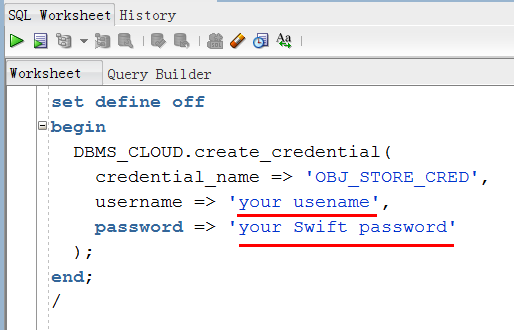
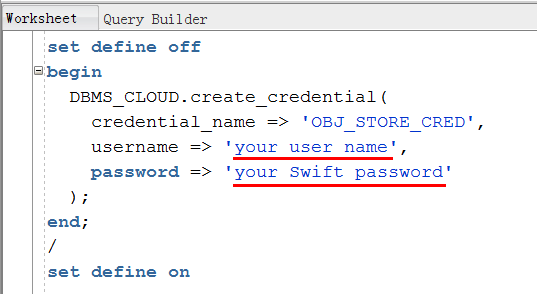
update the create credential script and tune format
add "set difine on" in the create credential script

Changed region(s): [[0.0, 0.0, 1.0, 1.0], [0.1245, 0.6429, 0.4358, 0.7347]]

diff --git a/workshops/journey4-adwc/LabGuide300.md b/workshops/journey4-adwc/LabGuide300.md
@@ -91,13 +91,11 @@ In OCI Object Storage, a bucket is the terminology for a container of multiple f
 
     https://swiftobjectstorage.<**region_name**>.oraclecloud.com/v1/<**tenant_name**>/<**bucket_name**>/<**file_name**>
 
-In this example, the region name is us-ashburn-1, the tenant name is dbayard00, and the bucket name is ADWCLab. Yours might be different. So the URL of the chan_v3.dat file is:
+In this example, the region name is us-ashburn-1, the tenant name is dbayard00, and the bucket name is ADWCLab. Yours might be different. So the URL of the chan_v3.dat file is:  https://swiftobjectstorage.us-ashburn-1.oraclecloud.com/v1/dbayard00/ADWCLab/chan_v3.dat
 
-    https://swiftobjectstorage.us-ashburn-1.oraclecloud.com/v1/dbayard00/ADWCLab/chan_v3.dat
+![](images/300/ConstructURLs.png)
 
-    ![](images/300/ConstructURLs.png)
-
--   **Repeat** this for the **cust1v3.dat**, **chan_v3.dat**, **chan_v3_error.dat**, and **channels.csv** files. 
+-   **Repeat** this for the **cust1v3.dat**, **chan\_v3.dat**, **chan\_v3\_error.dat**, and **channels.csv** files. 
 
 -   **Save** the URLs you constructed to a note. We will use the URLs in the following steps.
 
@@ -190,7 +188,7 @@ When you are satisfied with the file content view, click **NEXT**.
 
 -   The last screen before the final data load enables you to test a larger row count than the sample data of the beginning of the wizard to see whether the previously made decisions are satisfying for your data load. Note that we are not loading any data when iterating back and forth between this screen and previous ones. Select **TEST RESULTS** and look at the log, the data you would load, any mistakes and how the external table definition looks like based on your inputs.
 
-&nbsp;&nbsp;&nbsp;&nbsp;&nbsp;&nbsp;&nbsp;&nbsp;&nbsp;&nbsp;&nbsp;When done with your investigation, click **NEXT**.
+&nbsp;&nbsp;&nbsp;&nbsp;&nbsp;&nbsp;&nbsp;When done with your investigation, click **NEXT**.
 
 ![](./images/300/Picture300-18b.png)
 
@@ -204,7 +202,7 @@ Alternative to the wizard-guided data load you can use the PL/SQL package **DBMS
     -   For the **credential_name** parameter in the **copy\_data** procedure, it is the name of the credential you defined in the step of Create a Database Credential for Your User.
     ![](./images/300/Picture300-19a.png)
 
-    -   For the **file\_uri\_list** parameter, it is assigned the value of the **chan\_v3\_dat\_URL** variable. Specify the URL that points to the **chan\_v3.data file** on your OCI Object Storage in the definition of the **chan\_v3\_dat\_URL** variable. You have constructed and saved the URL in the step of Construct the URLs of the Files on your OCI Object Storage. 
+    -   For the **file\_uri\_list** parameter, it is assigned the value of the **chan\_v3\_dat\_URL** variable. Specify the URL that points to the **chan\_v3.data file** on your OCI Object Storage in the definition of the **chan\_v3\_dat\_URL** variable. You have constructed and saved the URL in the step of Construct the URLs of the Files on Your OCI Object Storage. 
     ![](./images/300/Picture300-19.png)
 
 -   Repeat this for the **sale1\_v3\_dat\_URL** and **cust1\_v3\_dat\_URL** variables in the script.
@@ -225,7 +223,7 @@ select * from user_load_operations;
 This table lists the past and current load operations in your schema.Any data copy and data validation operation will be automatically
 tracked by Oracle.
 
--   To look at the log of a load operation, copy and paste <a href="./scripts/300/load_data_with_errors.txt" target="_blank">this code snippet</a> to a SQL Developer worksheet and run the script as your user in SQL Developer. Specify the URL that points to the **chan\_v3\_error.dat** file. You have constructed and saved the URL in the step of Construct the URLs of the Files on your OCI Object Storage. Note that you are going to load the data with errors this time.
+-   To look at the log of a load operation, copy and paste <a href="./scripts/300/load_data_with_errors.txt" target="_blank">this code snippet</a> to a SQL Developer worksheet and run the script as your user in SQL Developer. Specify the URL that points to the **chan\_v3\_error.dat** file. You have constructed and saved the URL in the step of Construct the URLs of the Files on Your OCI Object Storage. Note that you are going to load the data with errors this time.
 
     ![](./images/300/Picture300-21.png)
 
@@ -233,6 +231,7 @@ tracked by Oracle.
 ```
 select * from user_load_operations where status='FAILED';
 ```
+
     ![](./images/300/Picture300-22.png)
 
 A load or external table validation that errors out is indicated by status=FAILED in this table. Get the names of the log and bad files for the failing load operation from the column **logfile\_table** and **badfile\_table**. The logfile_table column shows the name of the table you can query to look at the log of a load operation. The column badfile_table shows the name of the table you can query to look at the rows that got errors during loading.
